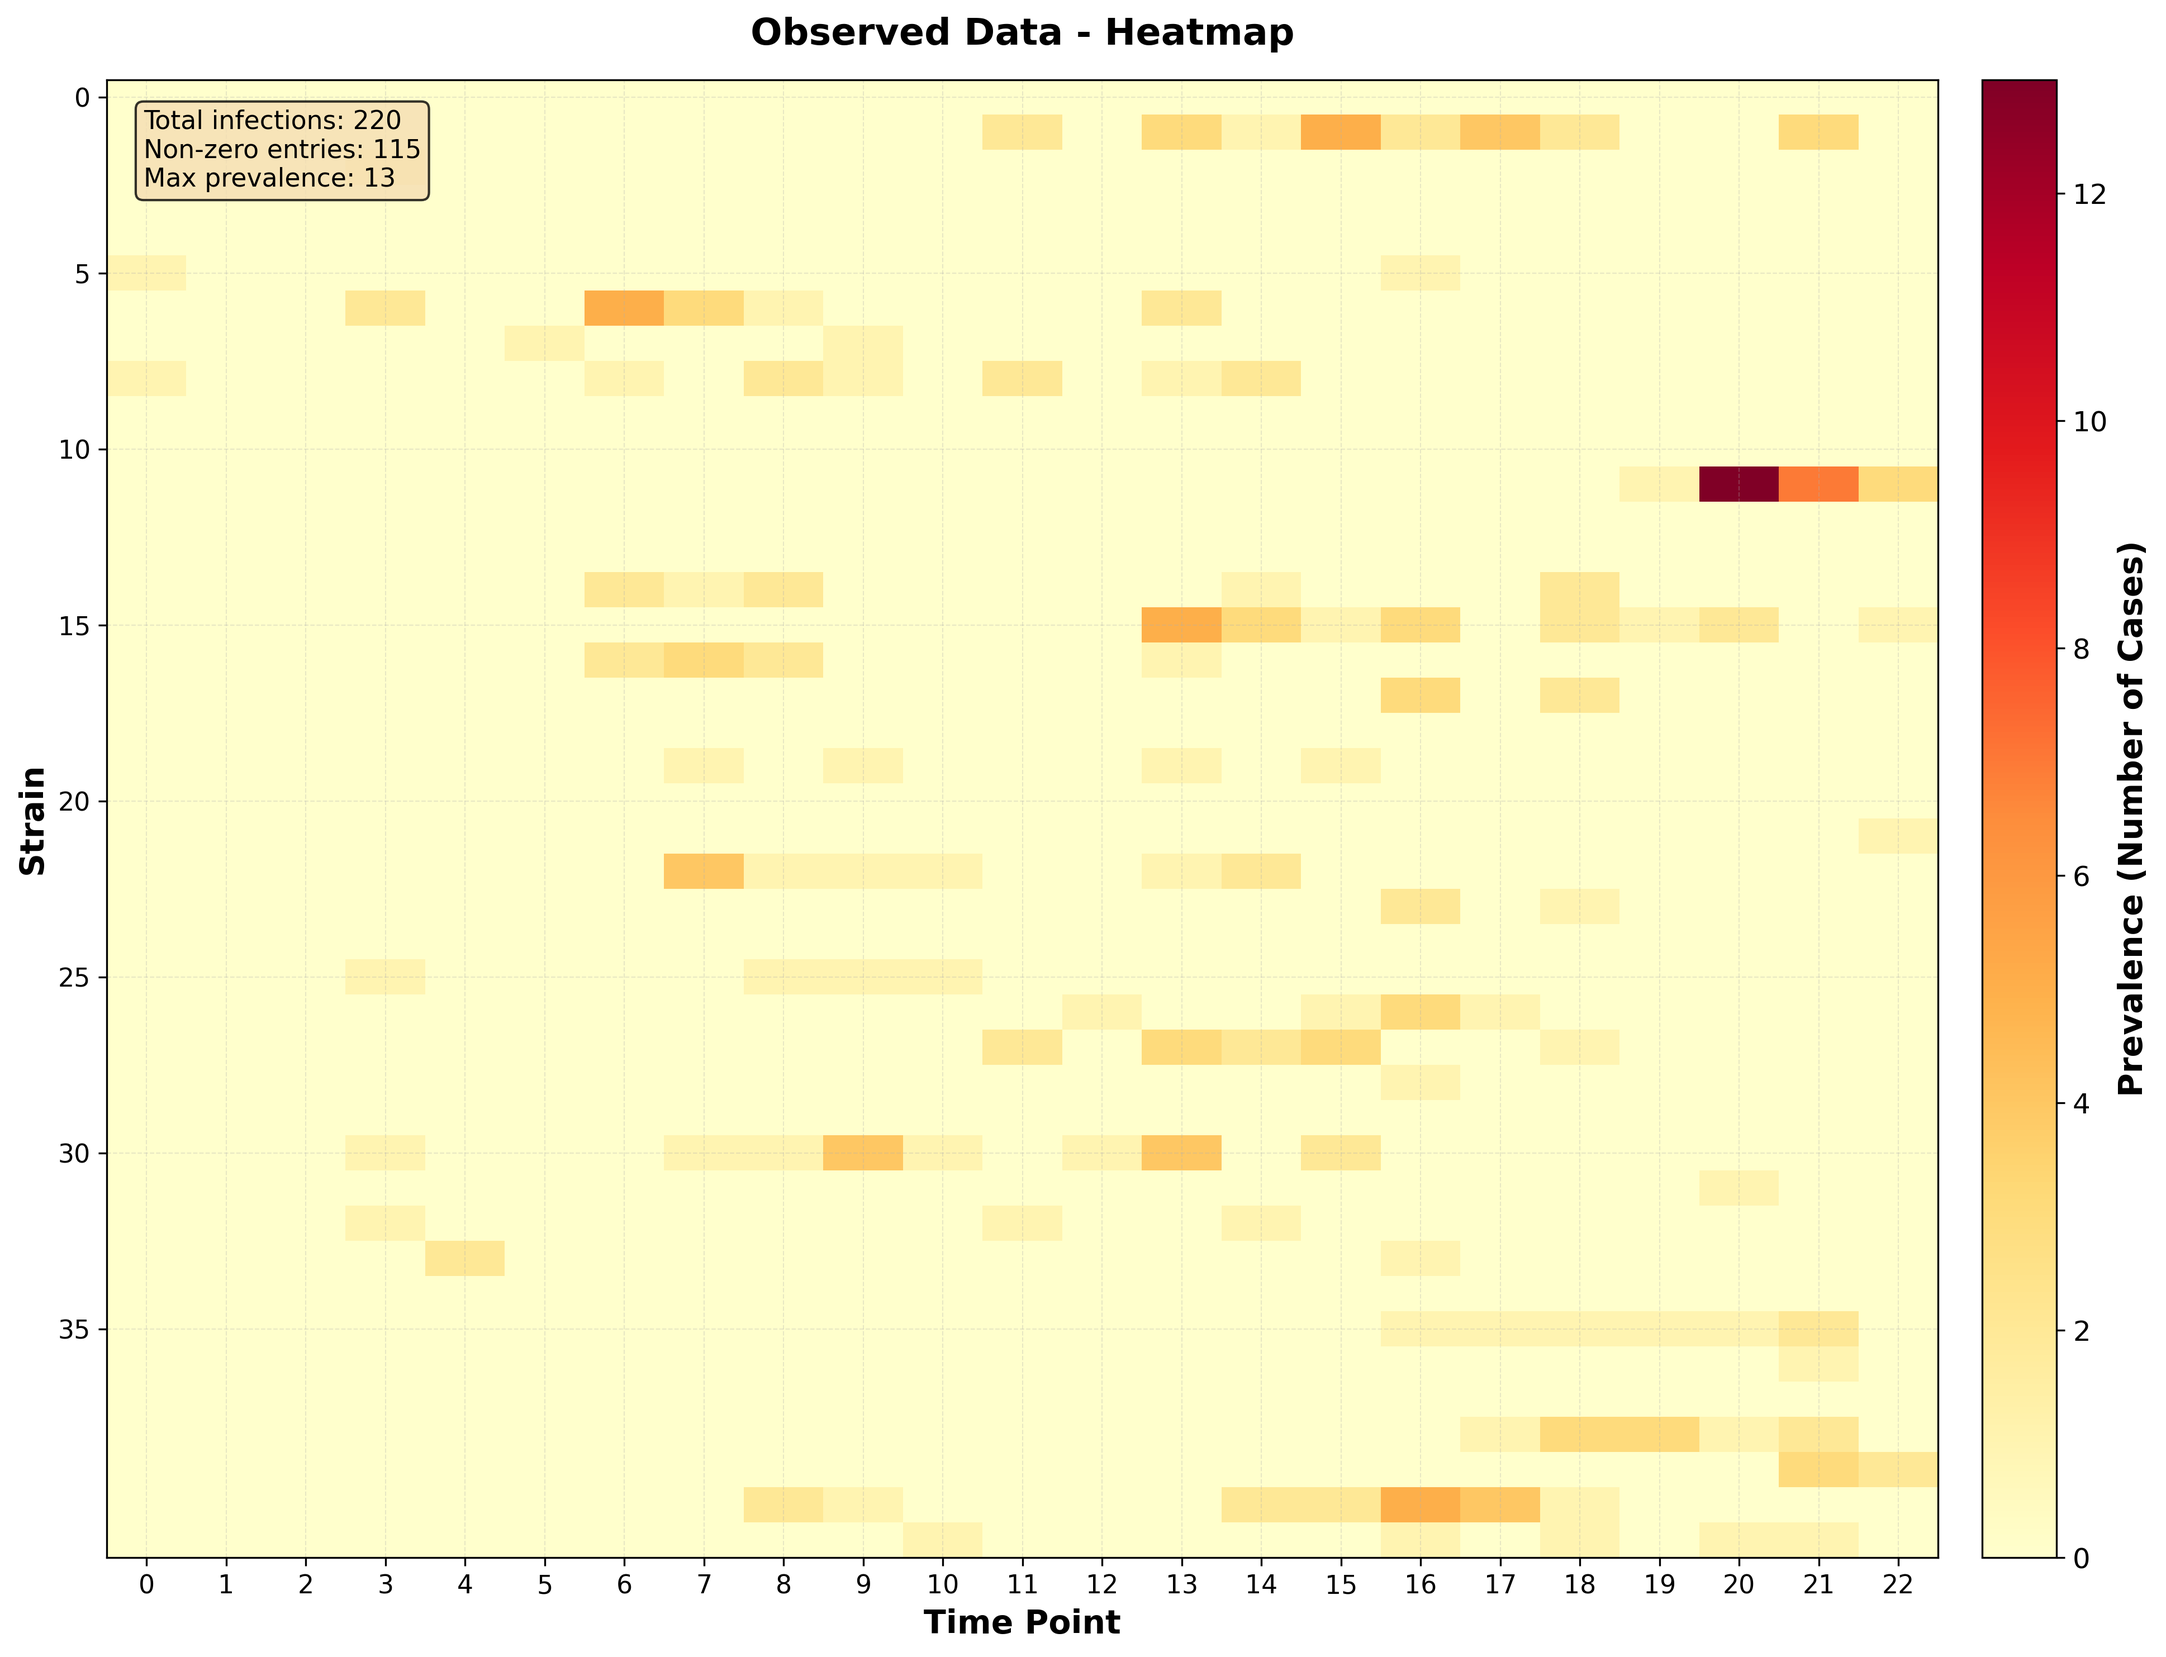
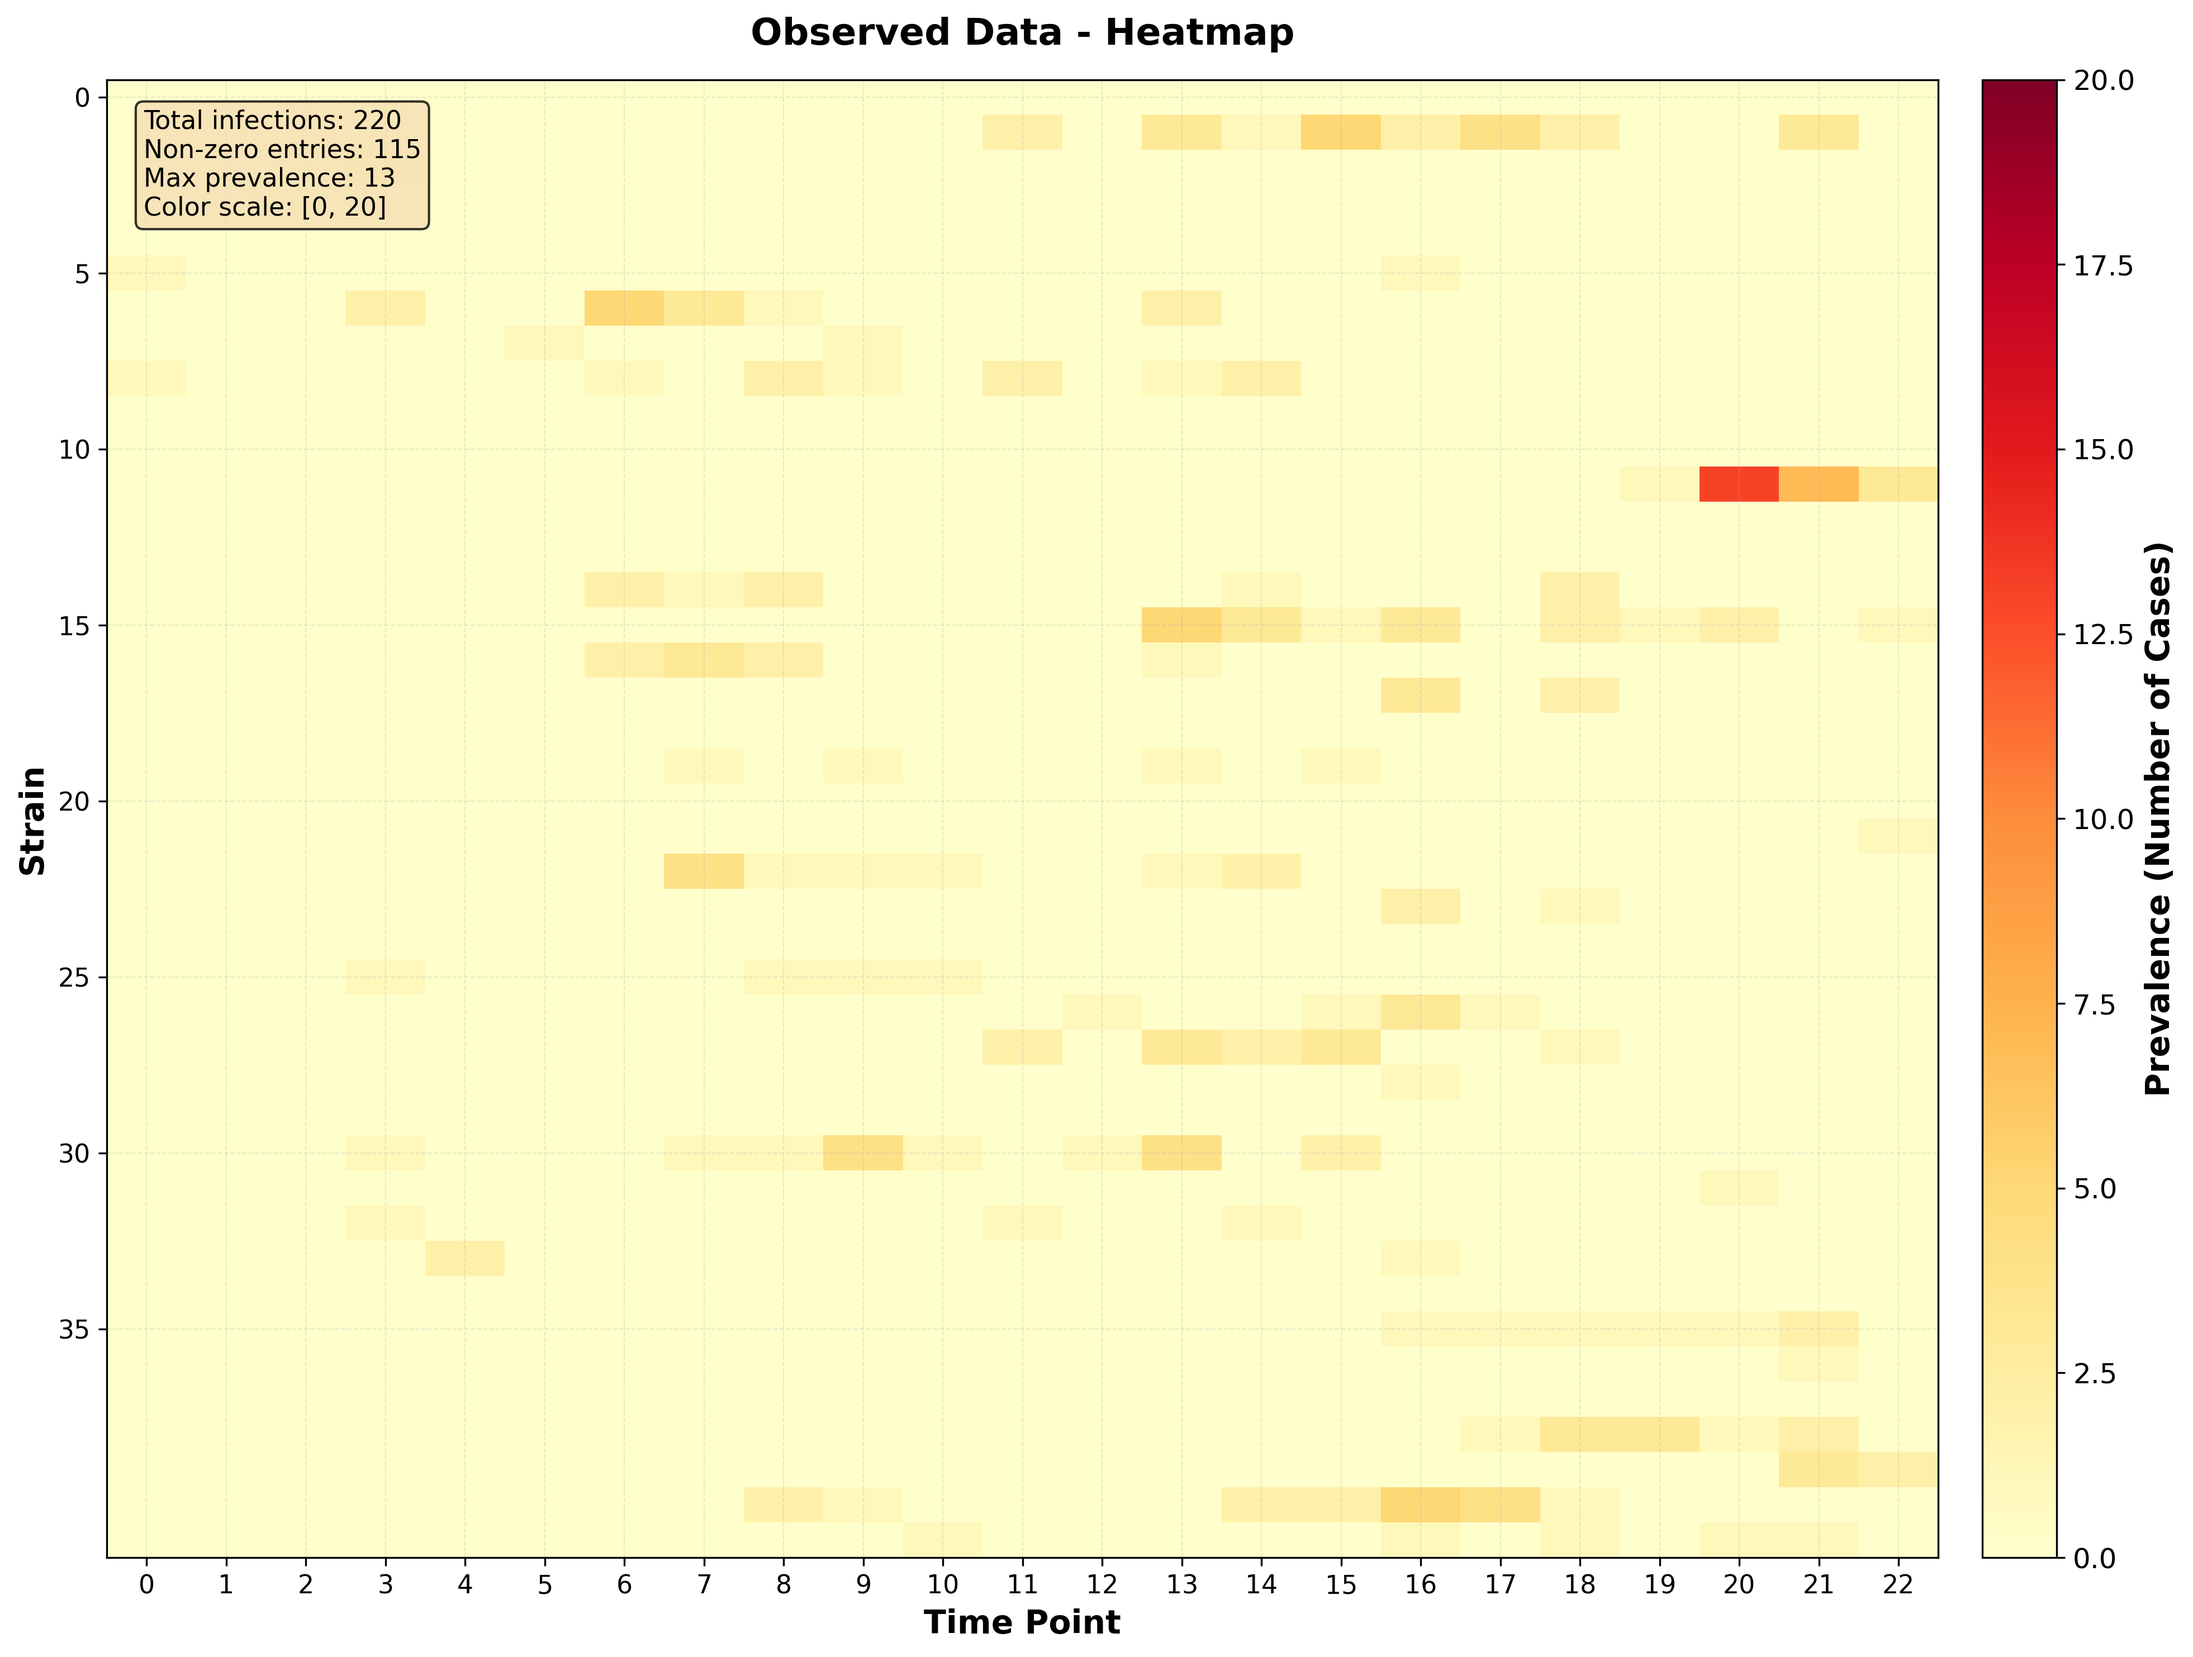
modified the plots for the specified 10 simulations

diff --git a/code/from_260430/display_selected_samples.py b/code/from_260430/display_selected_samples.py
@@ -335,11 +335,13 @@ def plot_samples_5x2(
     valid_indices_file='../../experimental_data/from_260430/valid_indices.csv',
     title="Selected Simulations",
     save_path='../../figures/from_260430/ppc/observations/',
-    save_filename='specific_samples_5x2.png'
+    save_filename='specific_samples_5x2.png',
+    vmin=0,   # Minimum value for color scale
+    vmax=80   # Maximum value for color scale
 ):
     """
     Plot exactly 10 specific sample IDs in a 5x2 grid.
-    NOW WITH MAPPING SUPPORT!
+    NOW WITH MAPPING SUPPORT AND UNIFORM COLOR SCALE!
     
     Parameters:
     -----------
@@ -361,6 +363,10 @@ def plot_samples_5x2(
         Directory to save figure
     save_filename : str
         Filename for saved figure
+    vmin : float
+        Minimum value for color scale (default: 0)
+    vmax : float
+        Maximum value for color scale (default: 80)
     """
     
     # Ensure exactly 10 samples
@@ -477,7 +483,7 @@ def plot_samples_5x2(
         
         # Plot heatmap
         im = ax.imshow(simulation, aspect='auto', cmap='YlOrRd', 
-                      interpolation='nearest', vmin=0)
+                      interpolation='nearest', vmin=vmin, vmax=vmax)
         
         # Colorbar
         cbar = plt.colorbar(im, ax=ax, fraction=0.046, pad=0.04)
@@ -516,6 +522,7 @@ def plot_samples_5x2(
     plt.savefig(save_file, dpi=300, bbox_inches='tight')
     print(f"\n✓ Saved to: {save_file}")
     plt.close()
+ 
 
 
 def plot_matrices_scatter_5x2(
@@ -816,7 +823,9 @@ def plot_observation_heatmap(
     observation_matrix=None,
     title="Observed Data - Heatmap",
     save_path='../../figures/from_260430/ppc/observations/',
-    save_filename='observation_heatmap.png'
+    save_filename='observation_heatmap.png',
+    vmin=0,   # Minimum value for color scale
+    vmax=20   # Maximum value for color scale
 ):
     """
     Plot observation matrix as a heatmap.
@@ -831,6 +840,10 @@ def plot_observation_heatmap(
         Directory to save figure
     save_filename : str
         Filename for saved figure
+    vmin : float
+        Minimum value for color scale (default: 0)
+    vmax : float
+        Maximum value for color scale (default: 80)
     """
     
     if observation_matrix is None:
@@ -849,7 +862,7 @@ def plot_observation_heatmap(
     
     # Heatmap
     im = ax.imshow(observation_matrix, aspect='auto', cmap='YlOrRd', 
-                   interpolation='nearest', vmin=0)
+                   interpolation='nearest', vmin=vmin, vmax=vmax)
     
     # Colorbar
     cbar = plt.colorbar(im, ax=ax, pad=0.02)
@@ -873,7 +886,8 @@ def plot_observation_heatmap(
     # Add text box with statistics
     stats_text = (f"Total infections: {observation_matrix.sum():.0f}\n"
                  f"Non-zero entries: {(observation_matrix > 0).sum()}\n"
-                 f"Max prevalence: {observation_matrix.max():.0f}")
+                 f"Max prevalence: {observation_matrix.max():.0f}\n"
+                 f"Color scale: [{vmin}, {vmax}]")
     props = dict(boxstyle='round', facecolor='wheat', alpha=0.8)
     ax.text(0.02, 0.98, stats_text, transform=ax.transAxes, fontsize=11,
             verticalalignment='top', bbox=props)
@@ -941,7 +955,7 @@ def plot_observation_scatter(
         times, 
         strains, 
         c=prevalences,
-        s=prevalences * 30,  # Size proportional to prevalence
+        s=prevalences * 10,  # Size proportional to prevalence
         cmap='YlOrRd',
         alpha=0.7,
         edgecolors='black',
@@ -1016,7 +1030,9 @@ def plot_observation_both(
         observation_matrix=observation_matrix,
         title="Observed Data - Heatmap",
         save_path=save_path,
-        save_filename='observation_heatmap.png'
+        save_filename='observation_heatmap.png',
+        vmin=0,   # Minimum value for color scale
+        vmax=20   # Maximum value for color scale
     )
     
     # Version 2: Scatter
@@ -1024,7 +1040,9 @@ def plot_observation_both(
         observation_matrix=observation_matrix,
         title="Observed Data - Scatter Plot",
         save_path=save_path,
-        save_filename='observation_scatter.png'
+        save_filename='observation_scatter.png', 
+        vmin=0,   # Minimum value for color scale
+        vmax=20   # Maximum value for color scale
     )
     
     print("\n" + "="*70)
@@ -1406,10 +1424,16 @@ if __name__ == "__main__":
     
     
 
-    my_clean_ids = [125516, 479082, 114075, 80433, 302555, 
-                     95410, 162873, 360406, 395833, 60592]
-    my_original_ids = [125598, 479398, 114151,  80488, 302743, 
-                     95475, 162977, 360642, 396091, 60632]
+    # my_clean_ids = [125516, 479082, 114075, 80433, 302555, 
+    #                  95410, 162873, 360406, 395833, 60592]
+    # my_original_ids = [125598, 479398, 114151,  80488, 302743, 
+    #                  95475, 162977, 360642, 396091, 60632]
+
+    my_clean_ids = [125516, 95410,    # Row 1
+                479082, 162873,   # Row 2
+                114075, 360406,   # Row 3
+                80433, 395833,    # Row 4
+                302555, 60592]    # Row 5
 
 
     plot_samples_5x2(
@@ -1419,9 +1443,11 @@ if __name__ == "__main__":
     file_sigma='../../experimental_data/from_260430/sigma.csv',
     file_dists='../../experimental_data/from_260430/dists_observations_recal.csv',
     valid_indices_file='../../experimental_data/from_260430/valid_indices.csv',  # ← Key!
-    title="Top 10 Samples - Correct Mapping",
+    title="Specified 10 Simulations - Heatmap View",
     save_path='../../figures/from_260430/ppc/observations/',
-    save_filename='top_10_correct.png'
+    save_filename='matrices_heatmap_grid.png', 
+    vmin=0,   # ← Uniform color scale!
+    vmax=20
     )
     
     plot_matrices_scatter_5x2(
